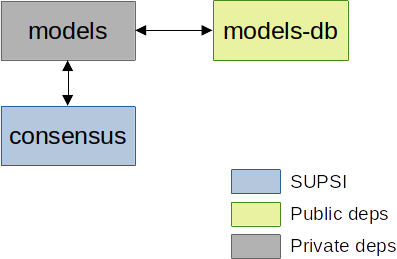
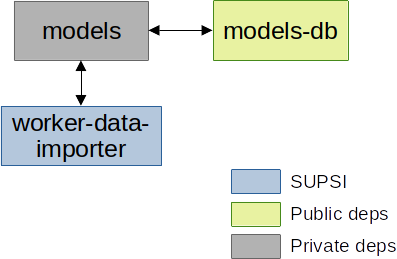
change module name

diff --git a/README.md b/README.md
@@ -1,6 +1,6 @@
-# [BF] Consensus
+# [BF] Worker Data Importer
 
-This repository describes how to use the Docker image for the *consensus* component, as part of the Cognitive Human Robot Interaction (C-HRI) scenario defined within the Better Factory project. The deployment is provided by means of Docker Compose, and the set of initialized components is depicted in the picture here below:
+This repository describes how to use the Docker image for the *worker-data-importer* component, as part of the Cognitive Human Robot Interaction (C-HRI) scenario defined within the Better Factory project. The deployment is provided by means of Docker Compose, and the set of initialized components is depicted in the picture here below:
 
 ![docker-deployment](./docker-deployment.png)
 
@@ -8,8 +8,8 @@ The blue-colored components represent the core components for which SUPSI provid
 
 > NOTE: In this deployment version, the only external dependencies that is available only in a private registry is *models*. The *models* image is provided and maintained by Holonix (HOL) within the Better Factory project.
 
-### consensus
-The *consensus* component downloads the worker responses collected with the "Consensus" questionnaire (GForm). Each response contains static data about the worker, which are pushed to the *models* component by means of its REST API. A cron job is exploited to download new responses.
+### worker-data-importer
+The *worker-data-importer* component downloads the worker responses collected with the "Consensus" questionnaire (GForm). Each response contains static data about the worker, which are pushed to the *models* component by means of its REST API. A cron job is exploited to download new responses.
 
 ### Dependencies
 
